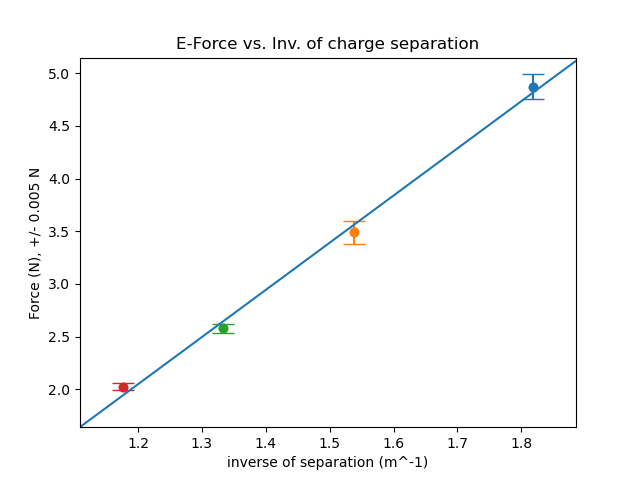
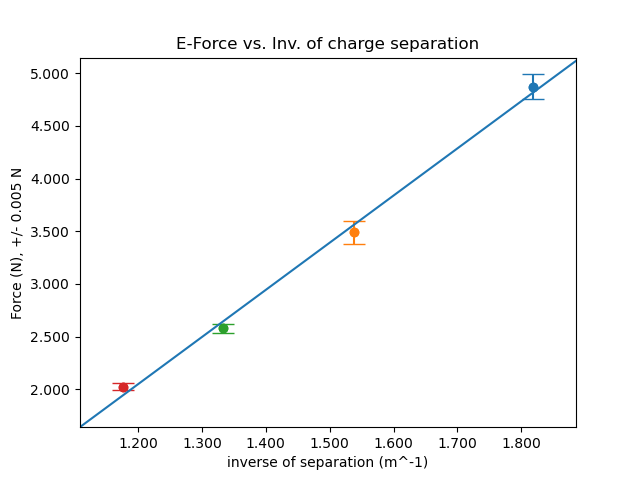
Fix sigfigs on axes

diff --git a/labs/LabA2.py b/labs/LabA2.py
@@ -1,6 +1,7 @@
 import csv
 import matplotlib.pyplot as plt
 import numpy as np
+from matplotlib.ticker import FormatStrFormatter
 
 """
 0) read each value. sum average forces for each displacement
@@ -60,11 +61,17 @@ with open('A2Data.csv') as f:
             avgPts[rStr] = DokiAvgPoint(FORCE_INSTRUMENTAL_UNCERTAINTY)
         avgPts[rStr].add(f)
 
+axisFormat = FormatStrFormatter("%.3f")
+
 def drawGraph(title, sepTxt, pow):
     print("Drawing Graph: \"%s\"" % title)
     plt.title(title)
     plt.ylabel("Force (N), +/- %.3f N" % FORCE_INSTRUMENTAL_UNCERTAINTY)
     plt.xlabel("%sseparation (m^%d)" % (sepTxt, pow))
+
+    gca = plt.gca()
+    gca.yaxis.set_major_formatter(axisFormat)
+    gca.xaxis.set_major_formatter(axisFormat)
 
     xArr = []
     yArr = []
@@ -85,12 +92,11 @@ def drawGraph(title, sepTxt, pow):
 
     m, b = np.polyfit(np.array(xArr), np.array(yArr), 1)
     print("BestFit: m=%.3f, b=%.3f" % (m, b))
-    xmin, xmax = plt.gca().get_xlim()
+    xmin, xmax = gca.get_xlim()
     plt.axline((xmin, (m * xmin) + b), (xmax, (m * xmax) + b))
     plt.show()
     plt.savefig('filename.png', dpi=300)
     print("------\n")
-
 
 drawGraph("E-Force vs. charge separation", "", 1)
 drawGraph("E-Force vs. Inv. of charge separation", "inverse of ", -1)
